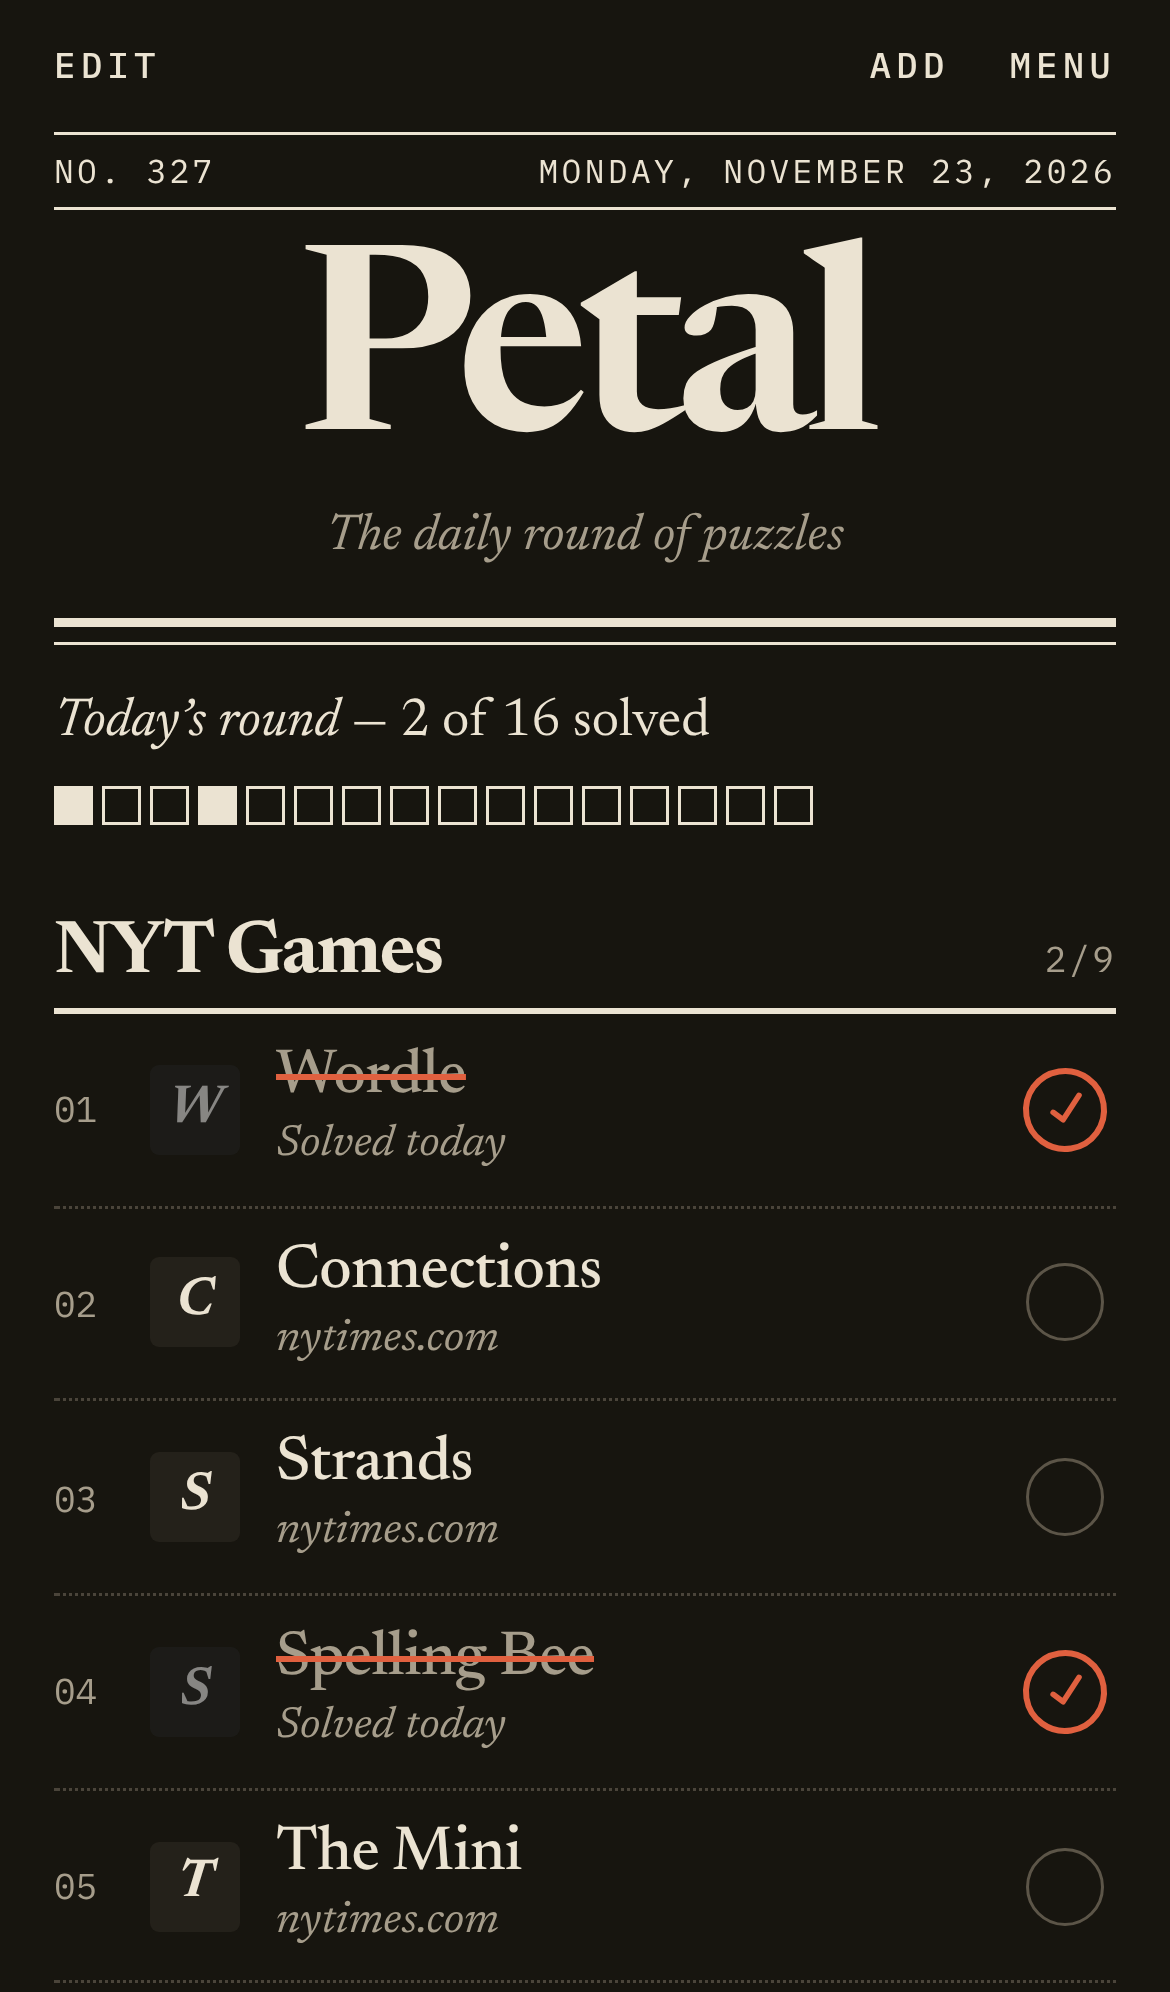
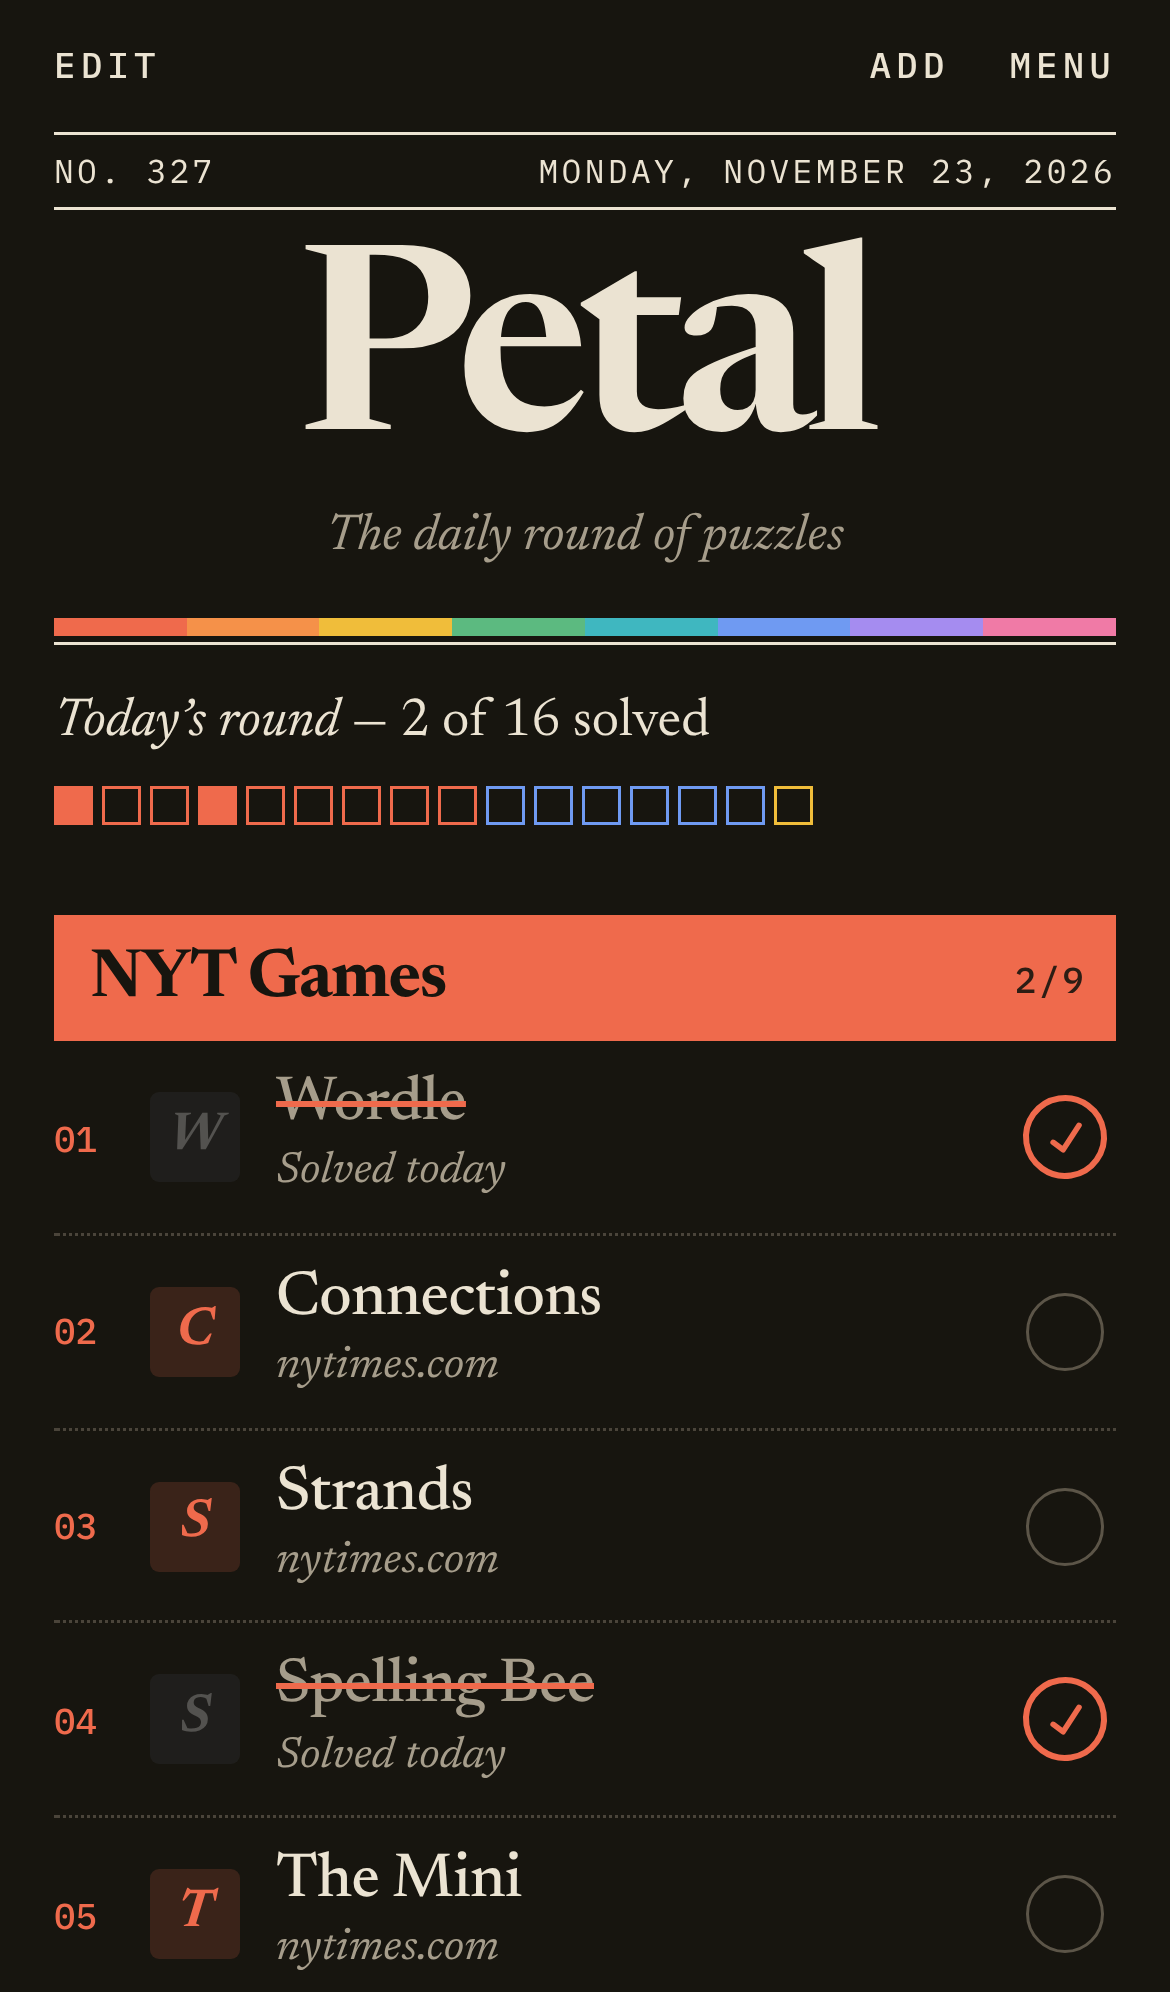
Print each group in its own spot-ink colour
Groups get a colour (red, blue, mustard, green, pink, teal, violet, orange),
assigned automatically and changeable in the group sheet. Section heads
become solid colour bands; numbers, letter tiles, ticks, cross-outs and
progress squares follow the group's ink. Masthead gets a printer's colour
bar and the app icon gets coloured petals.

Claude-Session: https://claude.ai/code/session_017hqE1RBXURZXgyHvoccJ1u

diff --git a/styles.css b/styles.css
@@ -26,6 +26,10 @@
   --ink-3: #aaa190;
   --dots: #b9b09e;
   --red: #b5301a;
+  /* spot inks for groups */
+  --ink-red: #c8361d; --ink-blue: #2456b8; --ink-mustard: #d99a0b; --ink-green: #2b7a4b;
+  --ink-pink: #d6477d; --ink-teal: #13808a; --ink-violet: #6a45b0; --ink-orange: #e2661b;
+  --on-ink: #fff8ee;
   --serif: "Newsreader", "Iowan Old Style", Georgia, serif;
   --mono: "Plex Mono", ui-monospace, Menlo, monospace;
   color-scheme: light;
@@ -40,6 +44,9 @@
     --ink-3: #5c5548;
     --dots: #4a443a;
     --red: #e0603f;
+    --ink-red: #ef6a4c; --ink-blue: #6f9af2; --ink-mustard: #f0bd3a; --ink-green: #5cba80;
+    --ink-pink: #f07aa6; --ink-teal: #3fb7c0; --ink-violet: #a58cf0; --ink-orange: #f59149;
+    --on-ink: #17150f;
     color-scheme: dark;
   }
 }
@@ -93,28 +100,42 @@ em { font-style: italic; }
   font-size: clamp(68px, 22vw, 112px); line-height: .92; font-weight: 600; letter-spacing: -.04em;
 }
 .tagline { margin: 6px 0 0; text-align: center; font-style: italic; font-size: 17px; color: var(--ink-2); }
+/* a printer's colour bar instead of a plain thick rule */
 .masthead::after {
-  content: ""; display: block; margin-top: 14px; height: 3px;
-  border-top: 3px solid var(--ink); border-bottom: 1px solid var(--ink); box-sizing: content-box; padding-bottom: 2px;
+  content: ""; display: block; margin-top: 14px; height: 9px;
+  background:
+    linear-gradient(90deg,
+      var(--ink-red) 0 12.5%, var(--ink-orange) 0 25%, var(--ink-mustard) 0 37.5%, var(--ink-green) 0 50%,
+      var(--ink-teal) 0 62.5%, var(--ink-blue) 0 75%, var(--ink-violet) 0 87.5%, var(--ink-pink) 0 100%) top / 100% 6px no-repeat,
+    linear-gradient(var(--ink), var(--ink)) bottom / 100% 1px no-repeat;
 }
+.c-red { --g: var(--ink-red); } .c-blue { --g: var(--ink-blue); } .c-mustard { --g: var(--ink-mustard); }
+.c-green { --g: var(--ink-green); } .c-pink { --g: var(--ink-pink); } .c-teal { --g: var(--ink-teal); }
+.c-violet { --g: var(--ink-violet); } .c-orange { --g: var(--ink-orange); }
+[class*="c-"] { --on-g: var(--on-ink); }
+.c-mustard { --on-g: #1b1812; }
+@media (prefers-color-scheme: dark) { .c-mustard { --on-g: var(--on-ink); } }
 
 .round { margin-top: 14px; }
 #roundText { margin: 0; font-size: 18px; font-variant-numeric: oldstyle-nums; }
 #roundText:empty { display: none; }
 .squares { display: flex; flex-wrap: wrap; gap: 3px; margin-top: 9px; }
-.squares i { width: 13px; height: 13px; border: 1px solid var(--ink); transition: background .25s; }
-.squares i.on { background: var(--ink); }
+.squares i { width: 13px; height: 13px; border: 1.5px solid var(--g, var(--ink)); transition: background .25s; }
+.squares i.on { background: var(--g, var(--ink)); }
 
 /* ---------- sections ---------- */
 .group { margin-top: 30px; }
+/* section heads print as a solid band of the group's ink */
 .group-head {
-  display: flex; align-items: baseline; justify-content: space-between; gap: 12px;
-  border-bottom: 2px solid var(--ink); padding-bottom: 3px;
+  display: flex; align-items: center; justify-content: space-between; gap: 12px;
+  background: var(--g); color: var(--on-g); padding: 6px 10px 5px 12px; min-height: 42px;
 }
-.group-name { margin: 0; font-size: 25px; font-weight: 700; letter-spacing: -.02em; line-height: 1.1; text-align: left; }
+.group-name { margin: 0; font-size: 23px; font-weight: 700; letter-spacing: -.02em; line-height: 1.1; text-align: left; color: inherit; }
 .group-name.editable { display: flex; align-items: baseline; gap: 10px; }
-.group-name .rename { font-size: 15px; font-weight: 400; font-style: italic; color: var(--red); letter-spacing: 0; }
-.group-count { font: 400 12px var(--mono); letter-spacing: .06em; color: var(--ink-2); }
+.group-name .rename { font-size: 15px; font-weight: 400; font-style: italic; letter-spacing: 0; text-decoration: underline; text-underline-offset: 3px; opacity: .9; }
+.group-count { font: 500 12px var(--mono); letter-spacing: .06em; color: inherit; opacity: .9; }
+.group-head .move-btn { color: inherit; }
+.group-head .move-btn:disabled { color: inherit; opacity: .35; }
 
 .row, .add-row { display: flex; align-items: center; border-bottom: 1px dotted var(--dots); }
 .row { min-height: 58px; }
@@ -123,7 +144,7 @@ em { font-style: italic; }
   padding: 10px 0; color: inherit; text-decoration: none; text-align: left;
 }
 a.row-main:active .row-title, button.row-main:active .row-title { color: var(--red); }
-.num { flex: none; width: 20px; font: 400 12px var(--mono); color: var(--ink-2); }
+.num { flex: none; width: 20px; font: 500 12px var(--mono); color: var(--g, var(--ink-2)); }
 .row-text { display: flex; flex-direction: column; min-width: 0; }
 .row-title { font-size: 21px; font-weight: 500; line-height: 1.15; letter-spacing: -.01em;
   white-space: nowrap; overflow: hidden; text-overflow: ellipsis; }
@@ -131,7 +152,7 @@ a.row-main:active .row-title, button.row-main:active .row-title { color: var(--r
   white-space: nowrap; overflow: hidden; text-overflow: ellipsis; }
 .row.played .row-title {
   color: var(--ink-2);
-  text-decoration: line-through; text-decoration-color: var(--red); text-decoration-thickness: 2px;
+  text-decoration: line-through; text-decoration-color: var(--g, var(--red)); text-decoration-thickness: 2px;
 }
 .row.played .ico { opacity: .55; filter: grayscale(1); }
 .row-note { margin: 0; padding: 12px 0; color: var(--ink-2); border-bottom: 1px dotted var(--dots); }
@@ -143,7 +164,8 @@ a.row-main:active .row-title, button.row-main:active .row-title { color: var(--r
   transition: opacity .2s, filter .2s;
 }
 .ico img { width: 100%; height: 100%; object-fit: contain; padding: 2px; }
-.ico.letter { font-weight: 700; font-style: italic; font-size: 18px; background: var(--paper-2); border-color: transparent; }
+.ico.letter { font-weight: 700; font-style: italic; font-size: 18px; border-color: transparent;
+  color: var(--g, var(--ink)); background: color-mix(in srgb, var(--g, var(--ink)) 16%, var(--paper)); }
 .ico.emoji { font-size: 21px; background: none; border-color: transparent; }
 
 /* the tick: an ink stamp */
@@ -153,8 +175,8 @@ a.row-main:active .row-title, button.row-main:active .row-title { color: var(--r
   border: 1.5px solid var(--ink-3);
 }
 .check svg { position: relative; font-size: 17px; }
-.check[aria-pressed="true"] { color: var(--red); }
-.check[aria-pressed="true"]::before { border: 2px solid var(--red); }
+.check[aria-pressed="true"] { color: var(--g, var(--red)); }
+.check[aria-pressed="true"]::before { border: 2px solid var(--g, var(--red)); }
 .check[aria-pressed="true"]::before, .check[aria-pressed="true"] svg { transform: rotate(-9deg); }
 .check[aria-pressed="true"] { animation: stamp .22s ease-out; }
 @keyframes stamp { from { transform: scale(1.35); opacity: .3; } }
@@ -165,9 +187,17 @@ a.row-main:active .row-title, button.row-main:active .row-title { color: var(--r
 .move-btn:disabled { color: var(--ink-3); opacity: .5; cursor: default; }
 .move-btn:not(:disabled):active { color: var(--red); }
 .add-row { width: 100%; gap: 12px; padding: 14px 0; text-align: left; color: var(--ink-2); }
-.add-row .num { color: var(--red); font-size: 15px; }
+.add-row .num { color: var(--g, var(--red)); font-size: 15px; }
 .add-row:active em { color: var(--red); }
 .new-group { margin-top: 30px; border-top: 2px solid var(--ink); }
+
+/* ink chooser in the group sheet */
+.field.inks { padding: 10px 0; }
+#inkChoices { display: flex; flex-wrap: wrap; gap: 8px; }
+.ink-chip { width: 26px; height: 26px; background: var(--g); position: relative; cursor: pointer; }
+.ink-chip input { position: absolute; inset: 0; margin: 0; opacity: 0; cursor: pointer; }
+.ink-chip:has(input:checked) { outline: 2px solid var(--ink); outline-offset: 3px; }
+.ink-chip:has(input:focus-visible) { outline: 2px solid var(--red); outline-offset: 3px; }
 
 .empty { text-align: center; padding: 64px 12px; font-style: italic; font-size: 20px; }
 .empty p { margin: 0 0 6px; }

diff --git a/app.js b/app.js
@@ -15,12 +15,22 @@
   // { version: 2, groups: [{id, name}], games: [{id, name, url, groupId, icon, lastPlayed, streak, undo}], settings }
   const uid = () => Math.random().toString(36).slice(2, 10) + Date.now().toString(36).slice(-4);
 
+  // Spot-ink colours a group can be printed in (defined in styles.css as .c-<name>).
+  const INKS = ["red", "blue", "mustard", "green", "pink", "teal", "violet", "orange"];
+  const INK_NAMES = { red: "Red", blue: "Blue", mustard: "Mustard", green: "Green", pink: "Pink", teal: "Teal", violet: "Violet", orange: "Orange" };
+  // the first ink not already used, or the least used one
+  const nextInk = (groups) => {
+    const count = (c) => groups.filter((g) => g.color === c).length;
+    return INKS.reduce((best, c) => (count(c) < count(best) ? c : best), INKS[0]);
+  };
+  const makeGroup = (name, groups) => ({ id: uid(), name, color: nextInk(groups) });
+
   function fromCatalogue(list) {
     const groups = [];
     const byName = new Map();
     const games = list.map((g) => {
       let grp = byName.get(g.group);
-      if (!grp) { grp = { id: uid(), name: g.group }; groups.push(grp); byName.set(g.group, grp); }
+      if (!grp) { grp = makeGroup(g.group, groups); groups.push(grp); byName.set(g.group, grp); }
       return newGame({ name: g.name, url: g.url, groupId: grp.id });
     });
     return { groups, games };
@@ -37,8 +47,9 @@
   function migrate(s) {
     if (!s || !Array.isArray(s.games)) return null;
     const groups = Array.isArray(s.groups)
-      ? s.groups.filter((g) => g && g.id && g.name).map((g) => ({ id: String(g.id), name: String(g.name) }))
+      ? s.groups.filter((g) => g && g.id && g.name).map((g) => ({ id: String(g.id), name: String(g.name), color: g.color }))
       : [];
+    groups.forEach((g, i) => { if (!INKS.includes(g.color)) g.color = nextInk(groups.slice(0, i)); });
     const byName = new Map(groups.map((g) => [g.name, g]));
     const games = [];
     for (const g of s.games) {
@@ -47,7 +58,7 @@
       if (!groups.some((x) => x.id === groupId)) {
         const name = g.group || "Other";
         let grp = byName.get(name);
-        if (!grp) { grp = { id: uid(), name }; groups.push(grp); byName.set(name, grp); }
+        if (!grp) { grp = makeGroup(name, groups); groups.push(grp); byName.set(name, grp); }
         groupId = grp.id;
       }
       games.push({
@@ -199,7 +210,8 @@
         done === total ? `all ${total} solved.` : `${done} of ${total} solved`);
     }
     const ordered = state.groups.flatMap((grp) => gamesIn(grp.id));
-    $("#squares").replaceChildren(...ordered.map((g) => h("i", { class: playedToday(g) ? "on" : null })));
+    $("#squares").replaceChildren(...ordered.map((g) =>
+      h("i", { class: `c-${groupById(g.groupId).color}${playedToday(g) ? " on" : ""}` })));
 
     document.body.classList.toggle("editing", editing);
     $("#editBtn").textContent = editing ? "Done" : "Edit";
@@ -228,7 +240,7 @@
       const head = editing
         ? h("div", { class: "group-head" },
             h("button", { class: "group-name editable", onclick: () => openGroupSheet(grp) }, grp.name,
-              h("span", { class: "rename" }, "rename")),
+              h("span", { class: "rename" }, "edit")),
             h("div", { class: "move" },
               moveBtn("i-up", `Move ${grp.name} up`, gi === 0, () => moveGroup(gi, -1)),
               moveBtn("i-down", `Move ${grp.name} down`, gi === state.groups.length - 1, () => moveGroup(gi, 1))))
@@ -244,7 +256,7 @@
       } else if (!shown.length) {
         rows.append(h("p", { class: "row-note" }, h("em", {}, "All solved.")));
       }
-      list.append(h("section", { class: "group" }, head, rows));
+      list.append(h("section", { class: `group c-${grp.color}` }, head, rows));
     });
 
     if (editing) {
@@ -320,7 +332,7 @@
       h("option", { value: "__new" }, "New group…"));
     if (!state.groups.length) {
       // a game needs a group; make "Other" on the fly
-      const grp = { id: uid(), name: "Other" };
+      const grp = makeGroup("Other", state.groups);
       state.groups.push(grp); save();
       return fillGroupSelect(grp.id);
     }
@@ -396,8 +408,12 @@
   function openGroupSheet(grp, onCreated) {
     editingGroupId = grp ? grp.id : null;
     onGroupCreated = onCreated || null;
-    $("#groupSheetTitle").textContent = grp ? "Rename group" : "New group";
+    $("#groupSheetTitle").textContent = grp ? "Edit group" : "New group";
     groupForm.name.value = grp ? grp.name : "";
+    const chosen = grp ? grp.color : nextInk(state.groups);
+    $("#inkChoices").replaceChildren(...INKS.map((c) =>
+      h("label", { class: `ink-chip c-${c}`, title: INK_NAMES[c] },
+        h("input", { type: "radio", name: "color", value: c, checked: c === chosen, "aria-label": INK_NAMES[c] }))));
     $("#deleteGroupWrap").hidden = !grp;
     const n = grp ? gamesIn(grp.id).length : 0;
     $("#deleteGroupNote").textContent = grp && n ? `Deleting this group also deletes its ${n} game${n === 1 ? "" : "s"}.` : "";
@@ -411,10 +427,11 @@
     if (!name) return;
     const clash = state.groups.find((g) => g.name.toLowerCase() === name.toLowerCase() && g.id !== editingGroupId);
     if (clash) { toast(`There's already a group called ${clash.name}`); return; }
+    const color = INKS.includes(groupForm.color.value) ? groupForm.color.value : nextInk(state.groups);
     if (editingGroupId) {
-      groupById(editingGroupId).name = name;
+      Object.assign(groupById(editingGroupId), { name, color });
     } else {
-      const grp = { id: uid(), name };
+      const grp = { id: uid(), name, color };
       state.groups.push(grp);
       if (onGroupCreated) onGroupCreated(grp);
       else if (!editing) { editing = true; }
@@ -490,7 +507,7 @@
           h("span", { class: "row-text" }, h("span", { class: "row-title" }, s.name), h("span", { class: "row-detail" }, s.group))),
         h("button", { class: "tool add-btn", onclick: () => {
             let grp = state.groups.find((g) => g.name === s.group);
-            if (!grp) { grp = { id: uid(), name: s.group }; state.groups.push(grp); }
+            if (!grp) { grp = makeGroup(s.group, state.groups); state.groups.push(grp); }
             state.games.push(newGame({ name: s.name, url: s.url, groupId: grp.id }));
             save(); render(); renderSuggestions();
           } }, "Add"))));

diff --git a/index.html b/index.html
@@ -81,6 +81,7 @@
       <div class="sheet-body">
         <div class="cells">
           <label class="field"><span>Name</span><input name="name" required maxlength="30" placeholder="Morning games" autocomplete="off"></label>
+          <div class="field inks"><span id="inkLabel">Ink</span><div id="inkChoices" role="radiogroup" aria-labelledby="inkLabel"></div></div>
         </div>
         <div class="cells" id="deleteGroupWrap">
           <button type="button" id="deleteGroup" class="cell-btn destructive">Delete this group</button>

diff --git a/sw.js b/sw.js
@@ -1,5 +1,5 @@
 // Bump this when you change any app file so phones pick up the new version.
-const CACHE = "petal-v3";
+const CACHE = "petal-v4";
 const ICON_CACHE = "petal-icons-v1";
 const ICON_HOSTS = ["www.google.com", "icons.duckduckgo.com"];
 const ASSETS = [

diff --git a/README.md b/README.md
@@ -16,7 +16,7 @@ It's a web app you can install on your home screen, so it works on any phone (iP
 - **Streaks.** Each game shows how many days in a row you've played it.
 - **Real game icons.** Each game shows its website's own icon, fetched automatically, and you can swap in an emoji or an image link.
 - **+ Add any game** with a name, link and group.
-- **Groups.** Create, rename, reorder and delete groups, from **Edit** or from **⋯ → New Group**.
+- **Groups.** Create, rename, recolour, reorder and delete groups, from **Edit** or **Menu → New group**. Each group is printed in its own ink colour, which you can change.
 - **Edit mode.** Tap a game to change it, use the arrows to reorder, or add a game straight into a group.
 - **⋯ Settings:**
   - move played games down, or hide them
